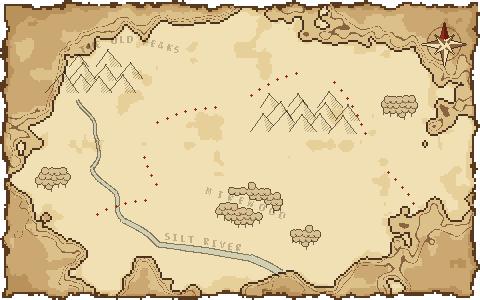
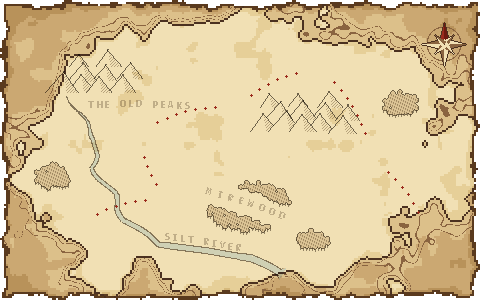
World map: readable names, a river that rises and opens out, lighter detailed city and castle
The Old Peaks' name sits on plain paper at the foot of the range; the
Mirewood has a wide lane for its name between two halves of the wood;
woods are fine canopies (small crowns, foliage ticks, a row of short
trunks) instead of puffy blobs; the river rises from a spring and opens
into a fading mouth; Cadrega City (domes, pointed roofs, a spire, a
wall) and the Star Kingdom (towers with flags, keep, gate, stars) are
finer and in lighter ink.

diff --git a/art/gen/world_map.py b/art/gen/world_map.py
@@ -96,7 +96,7 @@ def base_map():
     _forests_fine(up)
     _mountains_fine(up)
     _route_fine(up)
-    _projected_text(up, "THE OLD PEAKS", [(40 * F, 26 * F), (54 * F, 21 * F), (68 * F, 20 * F), (84 * F, 24 * F)])
+    _projected_text(up, "THE OLD PEAKS", [(44 * F, 53 * F), (64 * F, 52 * F), (86 * F, 53 * F)])
     _projected_text(up, "SILT RIVER", [(p[0] * F, p[1] * F - 7) for p in RIVER_PATH[4:9]])
     _projected_text(up, "MIREWOOD", [(x * F, y * F) for x, y in MIREWOOD_PATH], step=11)  # down a clear lane through the wood
     _compass(up, 222 * F, 22 * F, F)
@@ -172,14 +172,42 @@ def _landmark(im, i, x, y):
                 line(cx + 6 * ca - w * sa, cy - 6 * sa - w * ca, cx + 8.5 * ca - w * sa, cy - 8.5 * sa - w * ca)
             line(cx + 8.5 * ca - 1.3 * sa, cy - 8.5 * sa - 1.3 * ca, cx + 8.5 * ca + 1.3 * sa, cy - 8.5 * sa + 1.3 * ca)
         hatch(lambda a, b: 2.5 < math.hypot(a - cx, b - cy) < 5.5 and a + b > cx + cy, cx - 6, cy - 6, cx + 6, cy + 6)
-    elif i == 3:  # Cadrega City: a skyline of towers, a spire, windows
-        line(x - 13, y, x + 13, y)
-        for x0, x1, top in ((-13, -8, 9), (-8, -4, 14), (-4, 1, 18), (1, 6, 11), (6, 9, 16), (9, 13, 8)):
-            line(x + x0, y, x + x0, y - top), line(x + x0, y - top, x + x1, y - top), line(x + x1, y - top, x + x1, y)
-            for wy in range(3, top - 1, 4):
-                ink(x + (x0 + x1) / 2, y - wy, 0.8)
-        line(x - 1.5, y - 18, x - 1.5, y - 22)
-        hatch(lambda a, b: True, x + 1, y - 11, x + 6, y - 1)
+    elif i == 3:  # Cadrega City: a walled city with domes, pointed roofs and a tall spire, drawn in light ink
+        k = 0.6
+        line(x - 14, y, x + 14, y, k)  # the ground
+        line(x - 14, y - 4, x + 14, y - 4, k)  # the city wall
+        for cx in range(-14, 15, 3):
+            line(x + cx, y - 4, x + cx, y - 5.5, k)  # its battlements
+        for x0, w, top, roof in ((-12, 5, 10, "point"), (-6, 5, 13, "dome"), (0, 4, 19, "spire"), (5, 5, 12, "dome"), (10, 4, 9, "point")):
+            line(x + x0, y - 4, x + x0, y - top, k), line(x + x0 + w, y - 4, x + x0 + w, y - top, k)
+            if roof == "dome":
+                arc(x + x0 + w / 2, y - top, w / 2, w / 2.2, 0, 180, k)
+            elif roof == "point":
+                line(x + x0, y - top, x + x0 + w / 2, y - top - 3.5, k), line(x + x0 + w / 2, y - top - 3.5, x + x0 + w, y - top, k)
+            else:
+                line(x + x0, y - top, x + x0 + w / 2, y - top - 7, k), line(x + x0 + w / 2, y - top - 7, x + x0 + w, y - top, k)
+            for wy in range(7, top - 1, 3):
+                ink(x + x0 + w / 2, y - wy, 0.45)  # lit windows: just a soft dot
+        hatch(lambda a, b: True, x + 6, y - 11, x + 9, y - 5, 0.25)
+    elif i == 5:  # Star Kingdom: a castle with conical-roofed towers, flags, a keep and a gate, under three stars
+        k = 0.6
+        line(x - 14, y, x + 14, y, k)
+        for tx in (-12, 9):  # the two outer towers with pointed roofs and flags
+            line(x + tx, y, x + tx, y - 11, k), line(x + tx + 3, y, x + tx + 3, y - 11, k)
+            line(x + tx - 1, y - 11, x + tx + 1.5, y - 16, k), line(x + tx + 1.5, y - 16, x + tx + 4, y - 11, k)
+            line(x + tx + 1.5, y - 16, x + tx + 1.5, y - 19, k), line(x + tx + 1.5, y - 19, x + tx + 4, y - 18, k)
+        line(x - 9, y - 6, x + 9, y - 6, k)  # the curtain wall
+        for cx in range(-9, 10, 2):
+            line(x + cx, y - 6, x + cx, y - 7.5, k)
+        line(x - 4, y - 6, x - 4, y - 13, k), line(x + 4, y - 6, x + 4, y - 13, k)  # the keep
+        line(x - 5, y - 13, x, y - 18, k), line(x, y - 18, x + 5, y - 13, k)
+        arc(x, y - 2.5, 2.2, 3, 0, 180, k), line(x - 2.2, y, x - 2.2, y - 2.5, k), line(x + 2.2, y, x + 2.2, y - 2.5, k)
+        ink(x, y - 10, 0.45), ink(x - 8, y - 8, 0.45), ink(x + 8, y - 8, 0.45)
+        hatch(lambda a, b: True, x + 10, y - 10, x + 12, y - 1, 0.25)
+        for sx_, sy_, r_ in ((0, -24, 3), (-9, -23, 2), (9, -23, 2)):
+            line(x + sx_ - r_, y + sy_, x + sx_ + r_, y + sy_), line(x + sx_, y + sy_ - r_, x + sx_, y + sy_ + r_)
+            line(x + sx_ - r_ * 0.6, y + sy_ - r_ * 0.6, x + sx_ + r_ * 0.6, y + sy_ + r_ * 0.6, 0.6)
+            line(x + sx_ - r_ * 0.6, y + sy_ + r_ * 0.6, x + sx_ + r_ * 0.6, y + sy_ - r_ * 0.6, 0.6)
     elif i == 4:  # Aerial Glades: a floating island, its underside hatched, a pond spilling off as a waterfall, a tree
         arc(x, y - 8, 12, 3, 0, 360)
         line(x - 12, y - 8, x, y + 2), line(x + 12, y - 8, x, y + 2)
@@ -188,18 +216,6 @@ def _landmark(im, i, x, y):
         line(x + 10, y - 7, x + 10, y + 4, 0.6), line(x + 12, y - 7, x + 12, y + 6, 0.6)
         line(x + 4, y - 9, x + 4, y - 12)
         arc(x + 2.5, y - 14, 2.2, 2.2, 60, 300), arc(x + 5.5, y - 14, 2.2, 2.2, -120, 120), arc(x + 4, y - 16, 2.4, 2.0, 0, 180)
-    elif i == 5:  # Star Kingdom: a castle with towers, crenellations and a gate, three stars above
-        for x0, x1, top in ((-12, -7, 12), (7, 12, 12), (-6, 6, 9)):
-            line(x + x0, y, x + x0, y - top), line(x + x1, y, x + x1, y - top), line(x + x0, y - top, x + x1, y - top)
-            for cx in range(x0, x1 + 1, 2):
-                line(x + cx, y - top, x + cx, y - top - 1.5)
-        line(x - 12, y, x + 12, y)
-        arc(x, y - 4, 2.5, 3.5, 0, 180), line(x - 2.5, y, x - 2.5, y - 4), line(x + 2.5, y, x + 2.5, y - 4)
-        hatch(lambda a, b: True, x + 8, y - 11, x + 11, y - 1)
-        for sx_, sy_, r_ in ((0, -21, 3), (-9, -18, 2), (9, -18, 2)):
-            line(x + sx_ - r_, y + sy_, x + sx_ + r_, y + sy_), line(x + sx_, y + sy_ - r_, x + sx_, y + sy_ + r_)
-            line(x + sx_ - r_ * 0.6, y + sy_ - r_ * 0.6, x + sx_ + r_ * 0.6, y + sy_ + r_ * 0.6, 0.6)
-            line(x + sx_ - r_ * 0.6, y + sy_ + r_ * 0.6, x + sx_ + r_ * 0.6, y + sy_ - r_ * 0.6, 0.6)
     elif i == 6:  # The Void: a black hole, a solid ink core inside a tilted, hatched ring
         cx, cy = x, y - 8
         for yy in range(int(cy - 4), int(cy + 5)):
@@ -333,18 +349,18 @@ def _forests_fine(up):
     (each row tucked under the one behind), a slightly darker canopy tone, and a few trunks along the bottom edge."""
     F = FINE
     px = up.load()
-    woods = [(124, 102, 16, 9), (26, 88, 8, 5), (152, 118, 7, 4), (200, 52, 8, 5)]
-    r = 4.2
+    woods = [(124, 103, 21, 12), (26, 88, 9, 6), (156, 120, 8, 5), (200, 52, 9, 6)]
+    r = 2.8
     for wx, wy, rx, ry in woods:
         crowns = []
-        for gy in range(-ry * F, ry * F + 1, 5):
-            for gx in range(-rx * F, rx * F + 1, 6):
-                x = wx * F + gx + (3 if (gy // 5) % 2 else 0) + (_hash(gx, gy, wx) - 0.5) * 1.5
+        for gy in range(-ry * F, ry * F + 1, 4):
+            for gx in range(-rx * F, rx * F + 1, 4):
+                x = wx * F + gx + (2 if (gy // 4) % 2 else 0) + (_hash(gx, gy, wx) - 0.5) * 1.5
                 y = wy * F + gy + (_hash(gy, gx, wy) - 0.5) * 1.5
                 edge = ((x / F - wx) / rx) ** 2 + ((y / F - wy) / ry) ** 2 + (_hash(int(x), int(y), 2) - 0.5) * 0.3
                 if edge > 1 or land(x / F, y / F) < 0.06 or not _clear_of_sites(x / F, y / F, 11):
                     continue
-                if _near_path(x / F, y / F, MIREWOOD_PATH, 3.5):
+                if _near_path(x / F, y / F, MIREWOOD_PATH, 6.5):
                     continue
                 crowns.append((x, y))
         if not crowns:
@@ -356,21 +372,19 @@ def _forests_fine(up):
                     if math.hypot(xx - cx, yy - cy) <= r:
                         inside.add((xx, yy))
         for xx, yy in inside:
-            _ink(px, xx, yy, 0.12, up.size)  # the canopy's tone
-        for xx, yy in inside:  # one outline round the whole canopy
+            _ink(px, xx, yy, 0.1, up.size)  # the canopy's tone
+            if (xx * 3 + yy) % 7 == 0 and (xx, yy - 2) in inside:
+                _ink(px, xx, yy, 0.4, up.size)  # little foliage ticks
+                _ink(px, xx, yy + 1, 0.3, up.size)
+        for xx, yy in inside:  # one outline round the whole wood
             if any((xx + dx, yy + dy) not in inside for dx, dy in ((1, 0), (-1, 0), (0, 1), (0, -1))):
-                _ink(px, xx, yy, 0.85, up.size)
-        for cx, cy in crowns:  # crown arcs inside: the lower edge of each crown, where it sits over the row in front
-            for a in range(200, 341, 12):
-                xx, yy = cx + (r - 0.5) * math.cos(math.radians(a)), cy - (r - 0.5) * math.sin(math.radians(a))
-                if (int(round(xx)), int(round(yy)) + 1) in inside:
-                    _ink(px, xx, yy, 0.45, up.size)
+                _ink(px, xx, yy, 0.75, up.size)
         bottom = {}
         for xx, yy in inside:
             bottom[xx] = max(bottom.get(xx, -1), yy)
-        for xx in sorted(bottom)[2:-2:7]:  # a few trunks under the canopy
-            for k in range(1, 4):
-                _ink(px, xx, bottom[xx] + k, 0.8, up.size)
+        for xx in sorted(bottom)[1:-1:3]:  # a row of short trunks under the canopy
+            for k in (1, 2):
+                _ink(px, xx, bottom[xx] + k, 0.6, up.size)
 
 
 def _river_fine(up):
@@ -381,7 +395,7 @@ def _river_fine(up):
     total = sum(math.hypot(x1 - x0, y1 - y0) for (x0, y0), (x1, y1) in zip(pts, pts[1:]))
     run = 0.0
     px = up.load()
-    water, bank = set(), set()
+    water, bank = set(), {}
     for (x0, y0), (x1, y1) in zip(pts, pts[1:]):
         L = math.hypot(x1 - x0, y1 - y0)
         n = int(L * 2)
@@ -389,22 +403,31 @@ def _river_fine(up):
             t = i / n
             x = x0 + (x1 - x0) * t + math.sin((y0 + (y1 - y0) * t) * 0.17) * 3
             y = y0 + (y1 - y0) * t
-            if land(x / F, y / F) <= 0:
-                break
-            half = (3 + 5 * (run + L * t) / total) / 2
+            h_land = land(x / F, y / F)
+            if h_land <= -0.03:
+                break  # out at sea: the mouth has already faded away
+            along = (run + L * t) / total
+            half = (0.5 + 7.5 * min(1.0, along / 0.12) * (0.4 + 0.6 * along)) / 2  # a spring that swells into a river
+            if h_land < 0.05:
+                half += (0.05 - h_land) * 60  # the mouth opens out toward the sea
             nx, ny = -(y1 - y0) / L, (x1 - x0) / L
             for k in range(-int(half * 2), int(half * 2) + 1):
                 o = k / 2
                 q = (int(round(x + nx * o)), int(round(y + ny * o)))
                 if _clear_of_sites(q[0] / F, q[1] / F, 9):
-                    (bank if abs(o) >= half - 0.5 else water).add(q)
+                    fade = max(0.0, min(1.0, h_land / 0.05)) if h_land < 0.05 else 1.0
+                    if abs(o) >= half - 0.5:
+                        bank[q] = max(bank.get(q, 0.0), 0.7 * fade)
+                    else:
+                        water.add(q)
         run += L
-    for x, y in water - bank:
+    for x, y in water - set(bank):
         if 0 <= x < up.width and 0 <= y < up.height and px[x, y][3]:
             r_, g, b, a = px[x, y]
             px[x, y] = (int(r_ * 0.86), int(g * 0.93), int(b * 1.0), a)  # a faint cool wash, the paper still showing
-    for x, y in bank:
-        _ink(px, x, y, 0.7, up.size)
+    for (x, y), k in bank.items():
+        if k > 0.05:
+            _ink(px, x, y, k, up.size)
 
 
 def _put(im, x, y, c):
@@ -607,7 +630,7 @@ def _mountains(im):
                 _peak(im, x, y, h)
 
 
-RIVER_PATH = [(40, 50), (50, 70), (46, 84), (56, 96), (62, 110), (80, 122), (104, 125), (126, 129), (142, 138), (150, 150)]
+RIVER_PATH = [(34, 48), (48, 70), (46, 84), (56, 96), (62, 110), (80, 122), (104, 125), (126, 129), (142, 138), (150, 150)]
 
 
 def _river(im):
